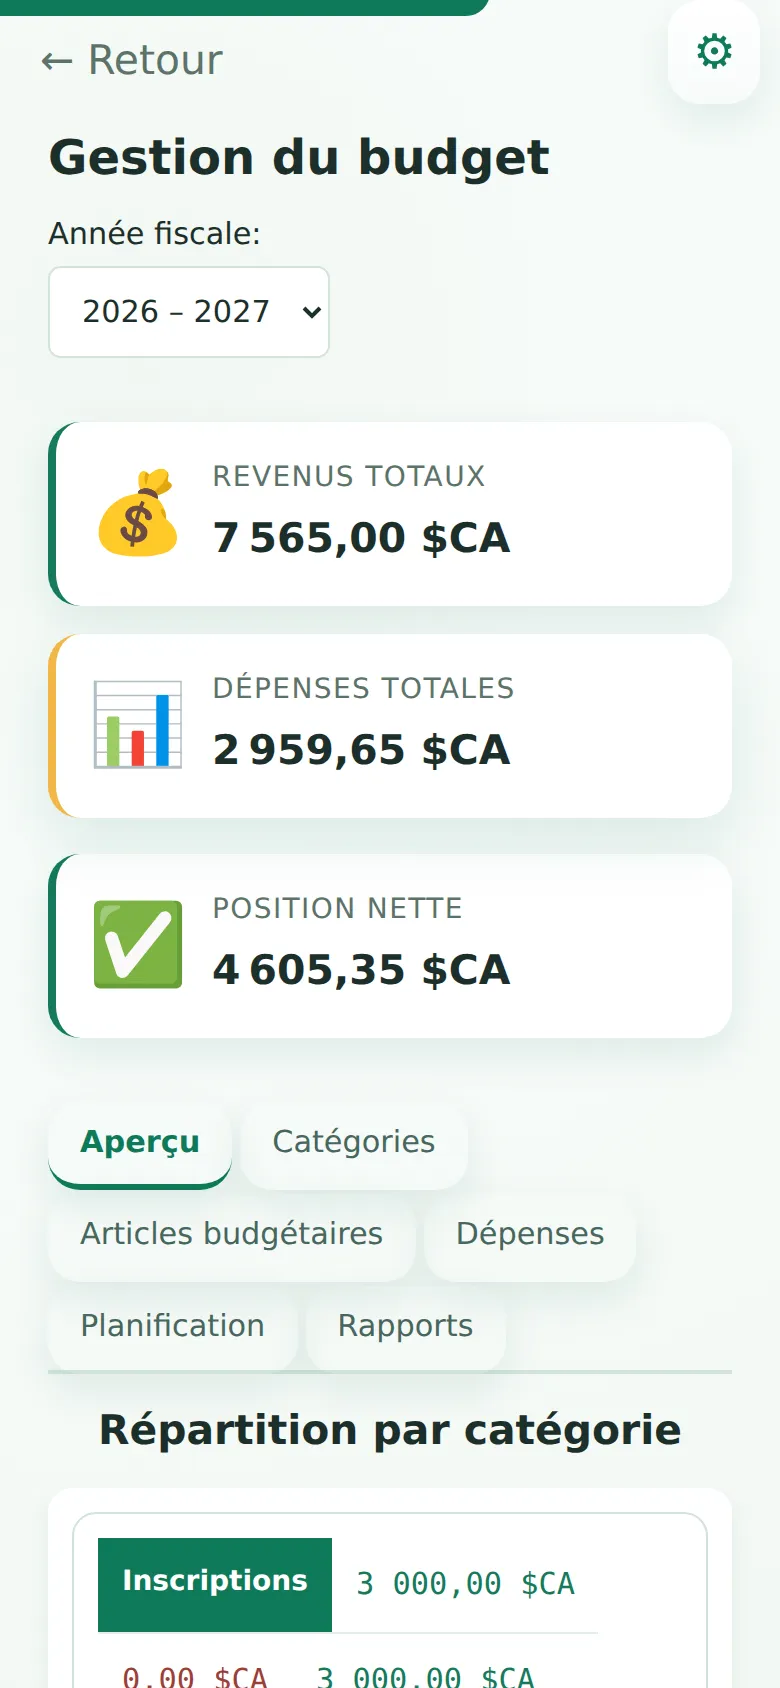
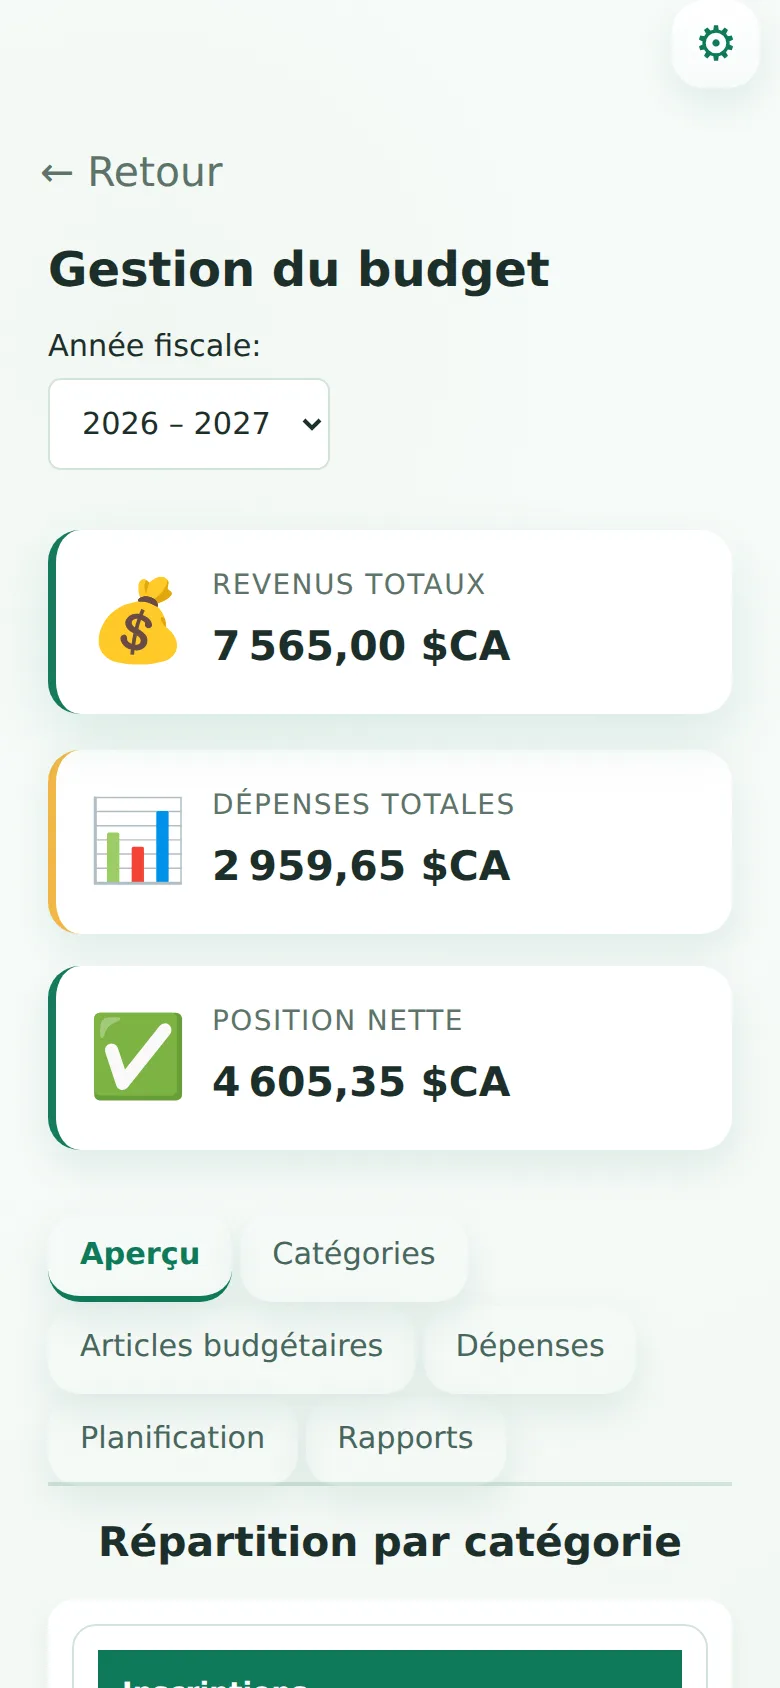
Retake the site's app screenshots from the fixed screens
All 14 screens, in French and English, at the same 390x844 phone size and
filenames, from the same fictional cub pack. The offline image's alt text
now describes the new banner.

diff --git a/landing/fr/comparer/wampums-vs-scoutbook/index.html b/landing/fr/comparer/wampums-vs-scoutbook/index.html
@@ -250,7 +250,7 @@ Demander une démo
 
   <figure class="app-shot">
     <div class="app-shot__phone">
-      <img src="/images/screenshots/offline-fr.webp" width="390" height="844" alt="Présences prises sans réseau : un bandeau indique le mode hors ligne et que les changements se synchroniseront plus tard." loading="lazy" decoding="async" />
+      <img src="/images/screenshots/offline-fr.webp" width="390" height="844" alt="Présences prises sans réseau : un bandeau au-dessus de la page indique le mode hors ligne." loading="lazy" decoding="async" />
     </div>
     <figcaption>Pas de réseau au camp ? On continue : tout se synchronise au retour.</figcaption>
   </figure>

diff --git a/landing/fr/modules/offline/index.html b/landing/fr/modules/offline/index.html
@@ -173,7 +173,7 @@ Demander une démo
 
   <figure class="app-shot">
     <div class="app-shot__phone">
-      <img src="/images/screenshots/offline-fr.webp" width="390" height="844" alt="Présences prises sans réseau : un bandeau indique le mode hors ligne et que les changements se synchroniseront plus tard." loading="lazy" decoding="async" />
+      <img src="/images/screenshots/offline-fr.webp" width="390" height="844" alt="Présences prises sans réseau : un bandeau au-dessus de la page indique le mode hors ligne." loading="lazy" decoding="async" />
     </div>
     <figcaption>Pas de réseau au camp ? On continue : tout se synchronise au retour.</figcaption>
   </figure>

diff --git a/landing/en/modules/offline/index.html b/landing/en/modules/offline/index.html
@@ -171,7 +171,7 @@ Request a demo
 
   <figure class="app-shot">
     <div class="app-shot__phone">
-      <img src="/images/screenshots/offline-en.webp" width="390" height="844" alt="Attendance taken with no network: a banner shows the app is offline and that changes will sync later." loading="lazy" decoding="async" />
+      <img src="/images/screenshots/offline-en.webp" width="390" height="844" alt="Attendance taken with no network: a banner above the page shows the app is offline." loading="lazy" decoding="async" />
     </div>
     <figcaption>No network at camp? Keep going: everything syncs when you're back.</figcaption>
   </figure>
